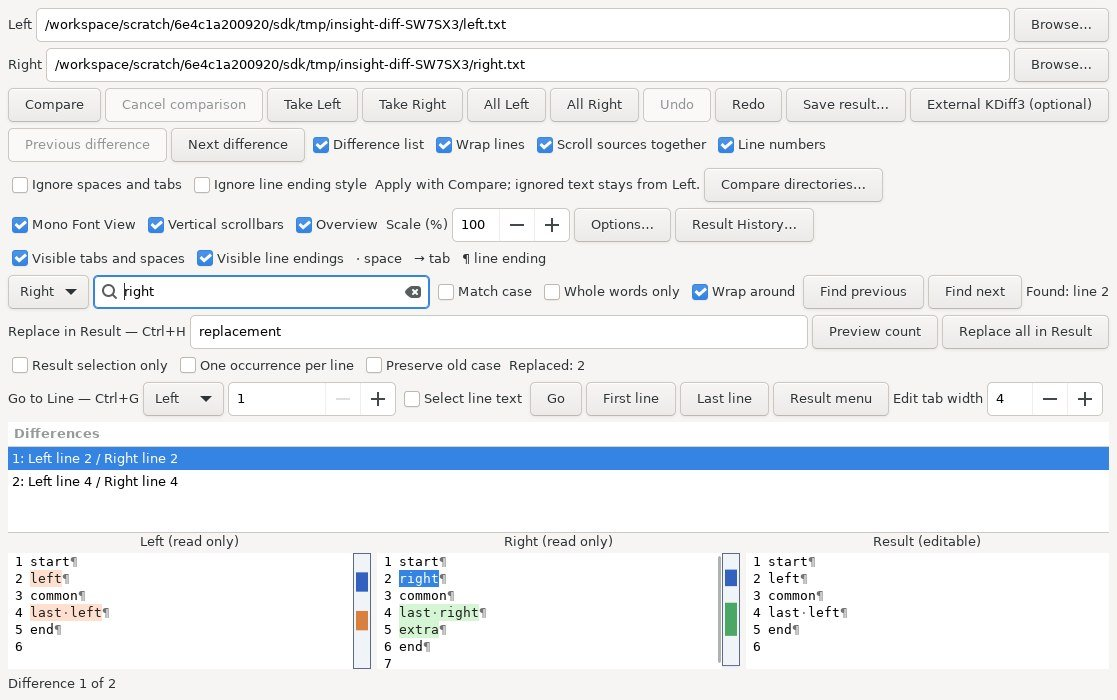
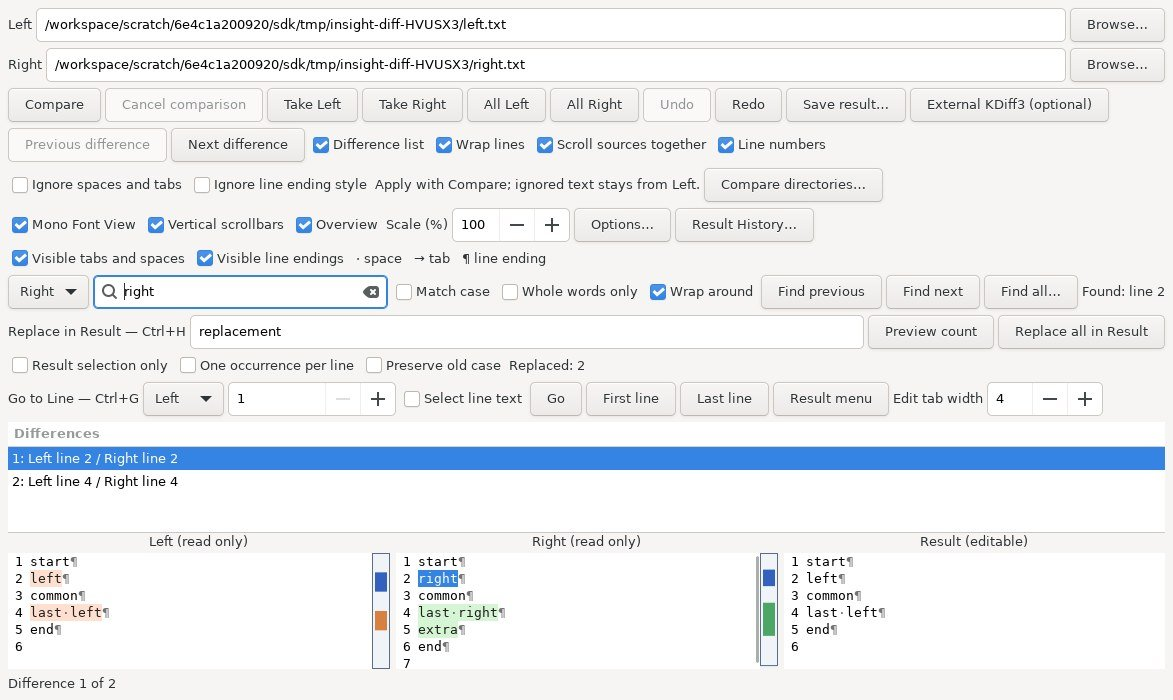
Add identifier search commands and bounded pane match lists with exact navigation

diff --git a/src/insight-diff.c b/src/insight-diff.c
@@ -180,6 +180,8 @@ static void go_line(GtkWidget *widget,gpointer data) {
  gchar *label=g_strdup_printf("Line %d of %d",line,gtk_text_buffer_get_line_count(buffer));gtk_label_set_text(GTK_LABEL(m->line_status),label);g_free(label);
 }
 static void line_begin(GtkWidget *widget,gpointer data) { Merge *m=data;gtk_spin_button_set_value(GTK_SPIN_BUTTON(m->line_number),widget==g_object_get_data(G_OBJECT(m->window),"line-first") ? 1 : G_MAXINT);go_line(widget,m); }
+static void selection_search(Merge *,guint,gint);
+static void find_all(Merge *,guint);
 static gboolean key(GtkWidget *w,GdkEventKey *event,gpointer data) {
  (void)w;
  Merge *m=data;
@@ -190,6 +192,8 @@ static gboolean key(GtkWidget *w,GdkEventKey *event,gpointer data) {
  }
  if(event->keyval==GDK_KEY_Escape && w==m->line_number) { gtk_widget_grab_focus(m->views[focused_pane(m)]);return TRUE; }
  if((event->state&GDK_CONTROL_MASK) && (event->keyval==GDK_KEY_h || event->keyval==GDK_KEY_H)) { gtk_combo_box_set_active(GTK_COMBO_BOX(m->find_side),2);gtk_widget_grab_focus(m->replace_entry);gtk_editable_select_region(GTK_EDITABLE(m->replace_entry),0,-1);return TRUE; }
+ if((event->state&GDK_CONTROL_MASK) && event->keyval==GDK_KEY_F3) { selection_search(m,focused_pane(m),(event->state&GDK_SHIFT_MASK) ? -1 : 1);return TRUE; }
+ if((event->state&(GDK_CONTROL_MASK|GDK_SHIFT_MASK))==(GDK_CONTROL_MASK|GDK_SHIFT_MASK) && (event->keyval==GDK_KEY_f || event->keyval==GDK_KEY_F)) { GtkWidget *focus=gtk_window_get_focus(GTK_WINDOW(m->window));guint side=gtk_combo_box_get_active(GTK_COMBO_BOX(m->find_side));for(guint i=0;i<3;i++) if(focus==m->views[i]) side=i;find_all(m,side);return TRUE; }
  if(event->keyval==GDK_KEY_F3) { find_text(m,(event->state&GDK_SHIFT_MASK)!=0);return TRUE; }
  if((event->state&GDK_CONTROL_MASK) && (event->keyval==GDK_KEY_f || event->keyval==GDK_KEY_F)) { focus_find(m);return TRUE; }
  if(event->keyval==GDK_KEY_Escape && w==m->find_entry) {
@@ -230,6 +234,42 @@ static gboolean search_match(GtkTextIter start,const gchar *query,GtkTextSearchF
  }
  return FALSE;
 }
+static void selection_search(Merge *m,guint side,gint direction) {
+ if(m->busy || side>2) return;
+ GtkTextBuffer *buffer=gtk_text_view_get_buffer(GTK_TEXT_VIEW(m->views[side]));GtkTextIter a,z,limit;guint scanned=0;
+ gboolean selection=gtk_text_buffer_get_selection_bounds(buffer,&a,&limit);
+ if(selection) { while(gtk_text_iter_compare(&a,&limit)<0 && !identifier_char(gtk_text_iter_get_char(&a)) && scanned++<4096) gtk_text_iter_forward_char(&a);if(gtk_text_iter_compare(&a,&limit)>=0) return; }
+ else { gtk_text_buffer_get_iter_at_mark(buffer,&a,gtk_text_buffer_get_insert(buffer));if(!identifier_char(gtk_text_iter_get_char(&a))) { GtkTextIter before=a;if(!gtk_text_iter_backward_char(&before) || !identifier_char(gtk_text_iter_get_char(&before))) return;a=before; } }
+ if(scanned>=4096 || !identifier_char(gtk_text_iter_get_char(&a))) return;
+ z=a;
+ for(;;) { GtkTextIter before=a;if(!gtk_text_iter_backward_char(&before) || !identifier_char(gtk_text_iter_get_char(&before))) break;if(scanned++>=4096) return;a=before; }
+ while(!gtk_text_iter_is_end(&z) && identifier_char(gtk_text_iter_get_char(&z))) { if(scanned++>=4096) return;gtk_text_iter_forward_char(&z); }
+ gchar *query=gtk_text_buffer_get_text(buffer,&a,&z,TRUE);gtk_entry_set_text(GTK_ENTRY(m->find_entry),query);g_free(query);gtk_combo_box_set_active(GTK_COMBO_BOX(m->find_side),side);
+ if(direction) { gtk_toggle_button_set_active(GTK_TOGGLE_BUTTON(m->find_word),TRUE);gtk_text_buffer_select_range(buffer,&a,&z);find_text(m,direction<0);gtk_widget_grab_focus(m->views[side]); }
+}
+static void search_result_activated(GtkTreeView *view,GtkTreePath *path,GtkTreeViewColumn *column,gpointer dialog) { (void)view;(void)path;(void)column;gtk_dialog_response(GTK_DIALOG(dialog),GTK_RESPONSE_APPLY); }
+static void find_all(Merge *m,guint side) {
+ if(m->busy || side>2) return;
+ const gchar *query=gtk_entry_get_text(GTK_ENTRY(m->find_entry));if(!*query) { gtk_label_set_text(GTK_LABEL(m->find_status),"Enter search text.");return; }
+ GtkWidget *window=m->window;g_object_ref(window);guint64 serial=m->history_serial;
+ GtkTextBuffer *buffer=gtk_text_view_get_buffer(GTK_TEXT_VIEW(m->views[side]));GtkTextSearchFlags flags=GTK_TEXT_SEARCH_TEXT_ONLY;if(!gtk_toggle_button_get_active(GTK_TOGGLE_BUTTON(m->find_case))) flags|=GTK_TEXT_SEARCH_CASE_INSENSITIVE;gboolean whole=gtk_toggle_button_get_active(GTK_TOGGLE_BUTTON(m->find_word));
+ GtkListStore *model=gtk_list_store_new(5,G_TYPE_INT,G_TYPE_INT,G_TYPE_UINT,G_TYPE_UINT,G_TYPE_STRING);GtkTextIter start,a,z;gtk_text_buffer_get_start_iter(buffer,&start);guint count=0;gboolean truncated=FALSE;
+ while(search_match(start,query,flags,FALSE,whole,&a,&z)) {
+  if(count==5000) { truncated=TRUE;break; }
+  GtkTextIter begin=a,end=a;gtk_text_iter_set_line_offset(&begin,0);if(!gtk_text_iter_ends_line(&end)) gtk_text_iter_forward_to_line_end(&end);if(gtk_text_iter_get_offset(&end)-gtk_text_iter_get_offset(&begin)>120) { begin=a;end=a;gtk_text_iter_forward_chars(&end,120); }
+  gchar *excerpt=gtk_text_buffer_get_text(buffer,&begin,&end,TRUE);for(gchar *p=excerpt;*p;p++) if(*p=='\r'||*p=='\n'||*p=='\t') *p=' ';
+  GtkTreeIter iter;gtk_list_store_append(model,&iter);gtk_list_store_set(model,&iter,0,gtk_text_iter_get_offset(&a),1,gtk_text_iter_get_offset(&z),2,gtk_text_iter_get_line(&a)+1,3,gtk_text_iter_get_line_offset(&a)+1,4,excerpt,-1);g_free(excerpt);count++;start=z;
+ }
+ GtkWidget *dialog=gtk_dialog_new_with_buttons("Pane Search Results",GTK_WINDOW(window),GTK_DIALOG_MODAL|GTK_DIALOG_DESTROY_WITH_PARENT,"Close",GTK_RESPONSE_CANCEL,"Go to match",GTK_RESPONSE_APPLY,NULL);g_object_ref(dialog);gtk_widget_set_name(dialog,"insight-diff-search-results");gtk_window_set_default_size(GTK_WINDOW(dialog),720,400);
+ GtkWidget *box=gtk_dialog_get_content_area(GTK_DIALOG(dialog));gchar *heading=g_strdup_printf("%s — %s",insight_tr(side==0 ? "Left" : side==1 ? "Right" : "Result"),query);GtkWidget *pattern=gtk_label_new(heading);g_free(heading);gtk_label_set_ellipsize(GTK_LABEL(pattern),PANGO_ELLIPSIZE_END);gtk_box_pack_start(GTK_BOX(box),pattern,FALSE,FALSE,4);gchar *summary=g_strdup_printf(truncated ? "Showing first %u matches (limit reached)." : "Matches: %u",count);gtk_box_pack_start(GTK_BOX(box),gtk_label_new(summary),FALSE,FALSE,4);g_free(summary);
+ GtkWidget *tree=gtk_tree_view_new_with_model(GTK_TREE_MODEL(model));g_object_unref(model);gtk_widget_set_name(tree,"insight-diff-search-results-list");g_signal_connect_object(tree,"row-activated",G_CALLBACK(search_result_activated),dialog,0);const gchar *titles[]={"Line","Column","Text preview"};for(guint i=0;i<3;i++) gtk_tree_view_insert_column_with_attributes(GTK_TREE_VIEW(tree),-1,titles[i],gtk_cell_renderer_text_new(),"text",i+2,NULL);
+ GtkWidget *scroll=gtk_scrolled_window_new(NULL,NULL);gtk_container_add(GTK_CONTAINER(scroll),tree);gtk_box_pack_start(GTK_BOX(box),scroll,TRUE,TRUE,4);gtk_dialog_set_response_sensitive(GTK_DIALOG(dialog),GTK_RESPONSE_APPLY,count>0);GtkTreeSelection *selection=g_object_ref(gtk_tree_view_get_selection(GTK_TREE_VIEW(tree)));if(count) { GtkTreePath *path=gtk_tree_path_new_first();gtk_tree_view_set_cursor(GTK_TREE_VIEW(tree),path,NULL,FALSE);gtk_tree_path_free(path); }gtk_widget_show_all(dialog);
+ gint response=gtk_dialog_run(GTK_DIALOG(dialog));m=g_object_get_data(G_OBJECT(window),"insight-diff-state");
+ if(response==GTK_RESPONSE_APPLY && m && !m->busy && m->history_serial==serial) { GtkTreeModel *selected_model;GtkTreeIter iter;if(gtk_tree_selection_get_selected(selection,&selected_model,&iter)) { gint begin,end;gtk_tree_model_get(selected_model,&iter,0,&begin,1,&end,-1);buffer=gtk_text_view_get_buffer(GTK_TEXT_VIEW(m->views[side]));gtk_text_buffer_get_iter_at_offset(buffer,&a,begin);gtk_text_buffer_get_iter_at_offset(buffer,&z,end);gtk_text_buffer_select_range(buffer,&a,&z);gtk_text_view_scroll_to_iter(GTK_TEXT_VIEW(m->views[side]),&a,0.1,TRUE,0,0.5);gtk_combo_box_set_active(GTK_COMBO_BOX(m->find_side),side);gtk_widget_grab_focus(m->views[side]); } }
+ else if(response==GTK_RESPONSE_APPLY && m && m->history_serial!=serial) gtk_label_set_text(GTK_LABEL(m->find_status),"Text changed; run Find all again.");
+ gtk_widget_destroy(dialog);g_object_unref(selection);g_object_unref(dialog);g_object_unref(window);
+}
+static void find_all_clicked(GtkWidget *widget,gpointer data) { (void)widget;Merge *m=data;find_all(m,gtk_combo_box_get_active(GTK_COMBO_BOX(m->find_side))); }
 static void find_text(Merge *m,gboolean backwards) {
  const gchar *query=gtk_entry_get_text(GTK_ENTRY(m->find_entry));if(!*query) { gtk_label_set_text(GTK_LABEL(m->find_status),"Enter search text.");return; }
  int side=gtk_combo_box_get_active(GTK_COMBO_BOX(m->find_side));
@@ -627,19 +667,20 @@ static void write_result(Merge *,guint);
 static void source_menu_action(GtkMenuItem *item,gpointer window) {
  Merge *m=g_object_get_data(G_OBJECT(window),"insight-diff-state");if(!m) return;
  gint side=GPOINTER_TO_INT(g_object_get_data(G_OBJECT(item),"side"));gint action=GPOINTER_TO_INT(g_object_get_data(G_OBJECT(item),"action"));
- if(action==0) edit_source(m,side);else if(action==1) copy_difference(m,side);else if(action==2) view_options(GTK_WIDGET(item),m);else if(action==3) focus_line(m,side);else if(side==2 && action<7) selection_case(m,action-4);else if(side==2 && action<11) edit_lines(m,action-7);else if(side==2 && action<13) history_end(m,action==12);else if(side==2 && action==13) history_dialog(NULL,m);else if(side==2) write_result(m,action-13);
+ if(action>=16) { if(action==19) find_all(m,side);else selection_search(m,side,action==16 ? 0 : action==17 ? 1 : -1); }else if(action==0) edit_source(m,side);else if(action==1) copy_difference(m,side);else if(action==2) view_options(GTK_WIDGET(item),m);else if(action==3) focus_line(m,side);else if(side==2 && action<7) selection_case(m,action-4);else if(side==2 && action<11) edit_lines(m,action-7);else if(side==2 && action<13) history_end(m,action==12);else if(side==2 && action==13) history_dialog(NULL,m);else if(side==2) write_result(m,action-13);
 }
 static void view_menu_toggle(GtkCheckMenuItem *item,gpointer toggle) { gtk_toggle_button_set_active(GTK_TOGGLE_BUTTON(toggle),gtk_check_menu_item_get_active(item)); }
 static void source_menu(GtkTextView *view,GtkWidget *menu,gpointer data) {
  Merge *m=data;guint side=GTK_WIDGET(view)==m->views[1] ? 1 : GTK_WIDGET(view)==m->views[0] ? 0 : 2;
  gtk_menu_shell_append(GTK_MENU_SHELL(menu),gtk_separator_menu_item_new());
- const gchar *labels[]={"Edit File — Ctrl+E","Copy selected difference","File Compare Options…","Go to Line — Ctrl+G","Uppercase selection","Lowercase selection","Toggle selection case","Indent result lines","Outdent result lines","Tabs to spaces in result lines","Trim trailing spaces in result lines","Undo All retained changes","Redo All retained changes","Result History…","Save a copy of Result…","Save Result selection…"};
+ const gchar *labels[]={"Edit File — Ctrl+E","Copy selected difference","File Compare Options…","Go to Line — Ctrl+G","Uppercase selection","Lowercase selection","Toggle selection case","Indent result lines","Outdent result lines","Tabs to spaces in result lines","Trim trailing spaces in result lines","Undo All retained changes","Redo All retained changes","Result History…","Save a copy of Result…","Save Result selection…","Load Search String","Search identifier forward — Ctrl+F3","Search identifier backward — Ctrl+Shift+F3","Find all matches in pane — Ctrl+Shift+F"};
  for(guint action=0;action<G_N_ELEMENTS(labels);action++) {
-  if((side==2 && action<2) || (side!=2 && action>=4)) continue;
+  if((side==2 && action<2) || (side!=2 && action>=4 && action<16)) continue;
   GtkWidget *item=gtk_menu_item_new_with_label(labels[action]);g_object_set_data(G_OBJECT(item),"side",GUINT_TO_POINTER(side));g_object_set_data(G_OBJECT(item),"action",GUINT_TO_POINTER(action));gtk_menu_shell_append(GTK_MENU_SHELL(menu),item);g_signal_connect_object(item,"activate",G_CALLBACK(source_menu_action),m->window,0);
   if(action>=4) gtk_widget_set_sensitive(item,!m->busy && (action>=7 || gtk_text_buffer_get_has_selection(result(m))));
   if(action>=11) gtk_widget_set_sensitive(item,!m->busy && (action==11 ? m->position>0 : action==12 ? m->position+1<m->history->len : m->history->len>0));
   if(action>=14) gtk_widget_set_sensitive(item,!m->busy && (action==14 || gtk_text_buffer_get_has_selection(result(m))));
+  if(action>=16) gtk_widget_set_sensitive(item,!m->busy);
   if(action<2) gtk_widget_set_sensitive(item,!m->busy && m->loaded_paths[side] && (action==0 ? source_opener!=NULL : selected(m)>=0));
  }
  GtkWidget *toggles[]={m->mono,m->numbers,m->list_toggle,m->wrap_toggle,m->vertical,m->overview,m->visible_space,m->visible_eol};
@@ -872,6 +913,7 @@ static Merge *merge_new(GtkWidget *parent) {
  m->find_word=gtk_check_button_new_with_label("Whole words only");gtk_box_pack_start(GTK_BOX(find),m->find_word,FALSE,FALSE,0);
  m->find_wrap=gtk_check_button_new_with_label("Wrap around");gtk_toggle_button_set_active(GTK_TOGGLE_BUTTON(m->find_wrap),TRUE);gtk_box_pack_start(GTK_BOX(find),m->find_wrap,FALSE,FALSE,0);
  m->find_previous=button(find,"Find previous",G_CALLBACK(find_clicked),m);m->find_next=button(find,"Find next",G_CALLBACK(find_clicked),m);
+ button(find,"Find all…",G_CALLBACK(find_all_clicked),m);
  m->find_status=gtk_label_new("");gtk_box_pack_start(GTK_BOX(find),m->find_status,FALSE,FALSE,0);
  g_signal_connect(m->find_entry,"activate",G_CALLBACK(find_activate),m);g_signal_connect(m->find_entry,"key-press-event",G_CALLBACK(key),m);
  GtkWidget *replace=gtk_box_new(GTK_ORIENTATION_HORIZONTAL,4);gtk_box_pack_start(GTK_BOX(box),replace,FALSE,FALSE,0);

diff --git a/insight/tests/diff_gui_test.c b/insight/tests/diff_gui_test.c
@@ -192,8 +192,31 @@ static void whitespace_test(void) {
  GdkPixbuf *plain=text_capture(m->views[2]);gtk_toggle_button_set_active(GTK_TOGGLE_BUTTON(m->visible_space),TRUE);gtk_toggle_button_set_active(GTK_TOGGLE_BUTTON(m->visible_eol),TRUE);GdkPixbuf *marked=text_capture(m->views[2]);g_assert_cmpint(gdk_pixbuf_get_byte_length(plain),==,gdk_pixbuf_get_byte_length(marked));g_assert_true(memcmp(gdk_pixbuf_get_pixels(plain),gdk_pixbuf_get_pixels(marked),gdk_pixbuf_get_byte_length(plain))!=0);g_object_unref(plain);g_object_unref(marked);assert_text(m,text);g_assert_cmpuint(m->history->len,==,history);
  GKeyFile *prefs=g_key_file_new();view_save(m,prefs);gtk_toggle_button_set_active(GTK_TOGGLE_BUTTON(m->visible_space),FALSE);gtk_toggle_button_set_active(GTK_TOGGLE_BUTTON(m->visible_eol),FALSE);view_restore(m,prefs);g_assert_true(gtk_toggle_button_get_active(GTK_TOGGLE_BUTTON(m->visible_space)));g_assert_true(gtk_toggle_button_get_active(GTK_TOGGLE_BUTTON(m->visible_eol)));g_key_file_unref(prefs);gtk_widget_destroy(m->window);flush();
 }
+typedef struct { Merge *m;guint rows,index;gint response;gboolean mutate; } SearchResponse;
+static gboolean search_response(gpointer data) {
+ SearchResponse *action=data;GList *windows=gtk_window_list_toplevels();GtkWidget *dialog=NULL;
+ for(GList *p=windows;p;p=p->next) if(!g_strcmp0(gtk_widget_get_name(p->data),"insight-diff-search-results")) dialog=p->data;
+ g_list_free(windows);g_assert_nonnull(dialog);GtkWidget *tree=named(dialog,"insight-diff-search-results-list");g_assert_cmpint(gtk_tree_model_iter_n_children(gtk_tree_view_get_model(GTK_TREE_VIEW(tree)),NULL),==,action->rows);
+ if(action->rows) { GtkTreePath *path=gtk_tree_path_new_from_indices(action->index,-1);gtk_tree_view_set_cursor(GTK_TREE_VIEW(tree),path,NULL,FALSE);gtk_tree_path_free(path); }
+ const gchar *capture=g_getenv("INSIGHT_DIFF_SEARCH_CAPTURE");if(capture && action->rows==3) { gint64 until=g_get_monotonic_time()+200000;while(g_get_monotonic_time()<until) { flush();g_usleep(1000); }GdkWindow *window=gtk_widget_get_window(dialog);GdkPixbuf *pixbuf=gdk_pixbuf_get_from_window(window,0,0,gdk_window_get_width(window),gdk_window_get_height(window));g_assert_nonnull(pixbuf);g_assert_true(gdk_pixbuf_save(pixbuf,capture,"jpeg",NULL,"quality","88",NULL));g_object_unref(pixbuf); }
+ if(action->mutate) gtk_text_buffer_set_text(result(action->m),"changed while searching",-1);
+ if(action->response==GTK_RESPONSE_APPLY && action->rows && !action->mutate) { GtkTreePath *path=gtk_tree_path_new_from_indices(action->index,-1);gtk_tree_view_row_activated(GTK_TREE_VIEW(tree),path,gtk_tree_view_get_column(GTK_TREE_VIEW(tree),0));gtk_tree_path_free(path); }else gtk_dialog_response(GTK_DIALOG(dialog),action->response);return G_SOURCE_REMOVE;
+}
+static void search_actions_test(void) {
+ Merge *m=merge_new(NULL);GtkTextBuffer *buffer=result(m);const gchar *initial="foo foobar foo\r\nяfoo foo\n";gtk_text_buffer_set_text(buffer,initial,-1);GtkTextIter a,z;
+ gtk_text_buffer_get_iter_at_offset(buffer,&a,1);gtk_text_buffer_place_cursor(buffer,&a);selection_search(m,2,0);g_assert_cmpstr(gtk_entry_get_text(GTK_ENTRY(m->find_entry)),==,"foo");g_assert_cmpint(gtk_text_iter_get_offset(&a),==,1);
+ selection_search(m,2,1);g_assert_true(gtk_text_buffer_get_selection_bounds(buffer,&a,&z));g_assert_cmpint(gtk_text_iter_get_offset(&a),==,11);selection_search(m,2,-1);gtk_text_buffer_get_selection_bounds(buffer,&a,&z);g_assert_cmpint(gtk_text_iter_get_offset(&a),==,0);
+ guint history=m->history->len;SearchResponse response={m,3,2,GTK_RESPONSE_CANCEL,FALSE};g_timeout_add(100,search_response,&response);find_all(m,2);g_assert_cmpuint(m->history->len,==,history);assert_text(m,initial);
+ response.response=GTK_RESPONSE_APPLY;g_timeout_add(100,search_response,&response);find_all(m,2);gtk_text_buffer_get_selection_bounds(buffer,&a,&z);g_assert_cmpint(gtk_text_iter_get_line(&a),==,1);g_assert_cmpint(gtk_text_iter_get_line_offset(&a),==,5);
+ response.rows=0;response.response=GTK_RESPONSE_CANCEL;gtk_entry_set_text(GTK_ENTRY(m->find_entry),"missing");g_timeout_add(100,search_response,&response);find_all(m,2);
+ gtk_entry_set_text(GTK_ENTRY(m->find_entry),"foo");response.rows=3;response.response=GTK_RESPONSE_APPLY;response.mutate=TRUE;g_timeout_add(100,search_response,&response);find_all(m,2);assert_text(m,"changed while searching");g_assert_false(gtk_text_buffer_get_has_selection(buffer));
+ gtk_text_buffer_set_text(buffer,"ёж_2 ёж_2",-1);gtk_text_buffer_get_start_iter(buffer,&a);gtk_text_buffer_place_cursor(buffer,&a);selection_search(m,2,1);g_assert_cmpstr(gtk_entry_get_text(GTK_ENTRY(m->find_entry)),==,"ёж_2");gtk_text_buffer_get_selection_bounds(buffer,&a,&z);g_assert_cmpint(gtk_text_iter_get_offset(&a),==,5);
+ gchar *long_word=g_strnfill(4097,'x');gtk_text_buffer_set_text(buffer,long_word,-1);g_free(long_word);gtk_text_buffer_get_start_iter(buffer,&a);gtk_text_buffer_place_cursor(buffer,&a);selection_search(m,2,0);g_assert_cmpstr(gtk_entry_get_text(GTK_ENTRY(m->find_entry)),==,"ёж_2");gtk_entry_set_text(GTK_ENTRY(m->find_entry),"foo");
+ GString *many=g_string_new(NULL);for(guint i=0;i<5100;i++) g_string_append(many,"foo\n");gtk_text_buffer_set_text(buffer,many->str,-1);g_string_free(many,TRUE);response.rows=5000;response.response=GTK_RESPONSE_CANCEL;response.mutate=FALSE;g_timeout_add(100,search_response,&response);find_all(m,2);
+ gboolean gone=FALSE;g_object_weak_ref(G_OBJECT(m->window),finalized,&gone);g_idle_add(close_options_parent,m->window);find_all(m,2);flush();g_assert_true(gone);
+}
 int main(int argc,char **argv) {
- g_setenv("GSETTINGS_BACKEND","memory",TRUE);gtk_init(&argc,&argv);line_navigation_test();search_options_test();replace_test();case_test();line_edit_test();history_test();export_test();whitespace_test();insight_diff_set_source_opener(source_opened);
+ g_setenv("GSETTINGS_BACKEND","memory",TRUE);gtk_init(&argc,&argv);line_navigation_test();search_options_test();replace_test();case_test();line_edit_test();history_test();export_test();whitespace_test();search_actions_test();insight_diff_set_source_opener(source_opened);
  GError *error=NULL;gchar *dir=g_dir_make_tmp("insight-diff-XXXXXX",&error);g_assert_no_error(error);
  gchar *left=g_build_filename(dir,"left.txt",NULL),*right=g_build_filename(dir,"right.txt",NULL);
  const char *a="start\nleft\ncommon\nlast left\nend\n",*b="start\nright\ncommon\nlast right\nextra\nend\n";

diff --git a/insight/tests/directory_compare_native_gui_test.c b/insight/tests/directory_compare_native_gui_test.c
@@ -31,6 +31,9 @@ static gboolean save_selected_result(gpointer data) {
  if(!prepared) { export_path=g_build_filename(root,"selection.txt",NULL);gtk_file_chooser_set_current_folder(GTK_FILE_CHOOSER(dialog),root);gtk_file_chooser_set_current_name(GTK_FILE_CHOOSER(dialog),"selection.txt");prepared=TRUE;return G_SOURCE_CONTINUE; }
  gchar *path=gtk_file_chooser_get_filename(GTK_FILE_CHOOSER(dialog));gboolean ready=!g_strcmp0(path,export_path);g_free(path);if(!ready) return G_SOURCE_CONTINUE;gtk_dialog_response(GTK_DIALOG(dialog),GTK_RESPONSE_ACCEPT);return G_SOURCE_REMOVE;
 }
+static gboolean choose_search_match(gpointer data) {
+ (void)data;GtkWidget *dialog=window_named("insight-diff-search-results");g_assert_nonnull(dialog);GtkWidget *tree=named(dialog,"insight-diff-search-results-list");g_assert_cmpint(gtk_tree_model_iter_n_children(gtk_tree_view_get_model(GTK_TREE_VIEW(tree)),NULL),==,1);gtk_dialog_response(GTK_DIALOG(dialog),GTK_RESPONSE_APPLY);return G_SOURCE_REMOVE;
+}
 static gboolean step(gpointer data) {
  (void)data;
  if(!phase) {
@@ -61,7 +64,7 @@ static gboolean step(gpointer data) {
   gtk_text_buffer_get_start_iter(buffer,&a);gtk_text_buffer_place_cursor(buffer,&a);GtkWidget *result_menu=GTK_WIDGET(gtk_menu_button_get_popup(GTK_MENU_BUTTON(named(merge,"insight-diff-result-menu"))));gtk_widget_show(result_menu);GList *edit_items=gtk_container_get_children(GTK_CONTAINER(result_menu));gboolean indented=FALSE;for(GList *p=edit_items;p;p=p->next) if(GTK_IS_MENU_ITEM(p->data) && !g_strcmp0(gtk_menu_item_get_label(p->data),"Indent result lines")) { gtk_menu_item_activate(p->data);indented=TRUE;break; }g_list_free(edit_items);gtk_widget_hide(result_menu);g_assert_true(indented);gtk_text_buffer_get_bounds(buffer,&a,&z);text=gtk_text_buffer_get_text(buffer,&a,&z,TRUE);g_assert_cmpstr(text,==,"    port = 3000\n");g_free(text);shortcut.keyval=GDK_KEY_z;handled=FALSE;g_signal_emit_by_name(merge,"key-press-event",&shortcut,&handled);g_assert_true(handled);
   g_idle_add(apply_history_state,NULL);gtk_button_clicked(GTK_BUTTON(named(merge,"insight-diff-history-button")));gtk_text_buffer_get_bounds(buffer,&a,&z);text=gtk_text_buffer_get_text(buffer,&a,&z,TRUE);g_assert_cmpstr(text,==,"    port = 3000\n");g_free(text);shortcut.keyval=GDK_KEY_z;handled=FALSE;g_signal_emit_by_name(merge,"key-press-event",&shortcut,&handled);g_assert_true(handled);
   gtk_text_buffer_get_bounds(buffer,&a,&z);gtk_text_buffer_select_range(buffer,&a,&z);gtk_widget_show(result_menu);GList *save_items=gtk_container_get_children(GTK_CONTAINER(result_menu));gboolean exported=FALSE;for(GList *p=save_items;p;p=p->next) if(GTK_IS_MENU_ITEM(p->data) && !g_strcmp0(gtk_menu_item_get_label(p->data),"Save Result selection…")) { g_timeout_add(100,save_selected_result,NULL);gtk_menu_item_activate(p->data);exported=TRUE;break; }g_list_free(save_items);gtk_widget_hide(result_menu);g_assert_true(exported);GeanyDocument *exported_doc=document_get_current();g_assert_nonnull(exported_doc);g_assert_cmpstr(exported_doc->real_path,==,export_path);g_assert_false(exported_doc->changed);g_assert_true(g_file_get_contents(export_path,&text,NULL,NULL));g_assert_cmpstr(text,==,"port = 3000\n");g_free(text);
-  GtkWidget *right_view=named(merge,"insight-diff-right");GtkTextBuffer *right_buffer=gtk_text_view_get_buffer(GTK_TEXT_VIEW(right_view));GtkTextIter line;gtk_widget_grab_focus(right_view);shortcut.keyval=GDK_KEY_g;handled=FALSE;g_signal_emit_by_name(right_view,"key-press-event",&shortcut,&handled);g_assert_true(handled);GtkWidget *line_number=named(merge,"insight-diff-line");g_assert_nonnull(line_number);gtk_spin_button_set_value(GTK_SPIN_BUTTON(line_number),2);g_signal_emit_by_name(line_number,"activate");gtk_text_buffer_get_iter_at_mark(right_buffer,&line,gtk_text_buffer_get_insert(right_buffer));g_assert_cmpint(gtk_text_iter_get_line(&line),==,1);shortcut.keyval=GDK_KEY_e;handled=FALSE;g_signal_emit_by_name(right_view,"key-press-event",&shortcut,&handled);g_assert_true(handled);GeanyDocument *opened=document_get_current();g_assert_nonnull(opened);gchar *expected=g_build_filename(right,"config.ini",NULL);g_assert_cmpstr(opened->real_path,==,expected);g_free(expected);g_assert_cmpint(sci_get_current_line(opened->editor->sci),==,1);g_assert_false(opened->changed);gtk_widget_destroy(merge);
+  GtkWidget *right_view=named(merge,"insight-diff-right");GtkTextBuffer *right_buffer=gtk_text_view_get_buffer(GTK_TEXT_VIEW(right_view));GtkTextIter line;gtk_text_buffer_get_start_iter(right_buffer,&line);gtk_text_buffer_place_cursor(right_buffer,&line);gtk_widget_grab_focus(right_view);gtk_entry_set_text(GTK_ENTRY(named(merge,"insight-diff-search")),"unrelated");shortcut.keyval=GDK_KEY_F3;handled=FALSE;g_signal_emit_by_name(right_view,"key-press-event",&shortcut,&handled);g_assert_true(handled);g_assert_cmpstr(gtk_entry_get_text(GTK_ENTRY(named(merge,"insight-diff-search"))),==,"port");shortcut.keyval=GDK_KEY_F;shortcut.state=GDK_CONTROL_MASK|GDK_SHIFT_MASK;handled=FALSE;g_idle_add(choose_search_match,NULL);g_signal_emit_by_name(right_view,"key-press-event",&shortcut,&handled);g_assert_true(handled);g_assert_true(gtk_text_buffer_get_has_selection(right_buffer));shortcut.state=GDK_CONTROL_MASK;shortcut.keyval=GDK_KEY_g;handled=FALSE;g_signal_emit_by_name(right_view,"key-press-event",&shortcut,&handled);g_assert_true(handled);GtkWidget *line_number=named(merge,"insight-diff-line");g_assert_nonnull(line_number);gtk_spin_button_set_value(GTK_SPIN_BUTTON(line_number),2);g_signal_emit_by_name(line_number,"activate");gtk_text_buffer_get_iter_at_mark(right_buffer,&line,gtk_text_buffer_get_insert(right_buffer));g_assert_cmpint(gtk_text_iter_get_line(&line),==,1);shortcut.keyval=GDK_KEY_e;handled=FALSE;g_signal_emit_by_name(right_view,"key-press-event",&shortcut,&handled);g_assert_true(handled);GeanyDocument *opened=document_get_current();g_assert_nonnull(opened);gchar *expected=g_build_filename(right,"config.ini",NULL);g_assert_cmpstr(opened->real_path,==,expected);g_free(expected);g_assert_cmpint(sci_get_current_line(opened->editor->sci),==,1);g_assert_false(opened->changed);gtk_widget_destroy(merge);
   gchar *copy=g_build_filename(left,"transfer.c",NULL);g_assert_true(g_file_set_contents(copy,"int transfer;\n",-1,NULL));g_free(copy);gtk_button_clicked(GTK_BUTTON(named(directory,"insight-directory-scan")));phase=3;return G_SOURCE_CONTINUE;
  }
  if(phase==3) {

diff --git a/insight/docs/en/internal-diff.md b/insight/docs/en/internal-diff.md
@@ -252,3 +252,13 @@ Text is captured before the file chooser. If the result changes, a comparison st
 **Visible tabs and spaces** draws ASCII spaces as `·` and tabs as `→`. **Visible line endings** draws `¶` for CR, LF or a CRLF pair, with one marker per pair. These are overlays in all three panes. Marker glyphs do not enter searches, selections, clipboard text, exports or saved files and create no merge history.
 
 Both toggles are available in the toolbar, Options and context menus. Apply commits changes; Cancel keeps the previous settings. Values persist with comparison-window preferences. Drawing follows zoom and wrapping. Work is capped at 20000 characters from the visible starting position per draw; pathological long lines can omit some markers. This does not affect text or comparison results. The main-window capture above shows enabled markers.
+
+### Identifier search and match lists
+
+Every pane's context menu provides **Load Search String**, forward/backward identifier search and **Find all matches in pane**. Loading takes the identifier under the caret or the first identifier in the selection, targets that search pane and preserves the caret. Identifiers use Unicode letters/digits, combining marks and underscore, without language parsing. Words requiring more than 4096 characters of traversal are not loaded.
+
+Ctrl+F3 searches for the next identifier occurrence; Ctrl+Shift+F3 searches backward. Both enable **Whole words only** and honor current case/wrap options. **Find all…** searches the entire pane chosen in the search bar. Ctrl+Shift+F uses the focused pane or the search-bar pane when focus is in controls. This is local comparison-pane search.
+
+The list contains up to 5000 matches with one-based logical lines/columns and text excerpts, indicating when capped. **Go to match** or double-click selects the exact range; Close changes nothing. Text edits or a new comparison invalidate old positions, so stale navigation is rejected. Queries, lists and positions are not persisted. Commands do not edit text or merge history and are unavailable while comparison runs.
+
+![Production GTK match list, isolated test fixture](../media/file-compare-search.jpg)

diff --git a/insight/docs/internal-diff.md b/insight/docs/internal-diff.md
@@ -252,3 +252,13 @@ Text is captured before the file chooser. If the result changes, a comparison st
 **Visible tabs and spaces** draws ASCII spaces as `·` and tabs as `→`. **Visible line endings** draws `¶` for CR, LF or a CRLF pair, with one marker per pair. These are overlays in all three panes. Marker glyphs do not enter searches, selections, clipboard text, exports or saved files and create no merge history.
 
 Both toggles are available in the toolbar, Options and context menus. Apply commits changes; Cancel keeps the previous settings. Values persist with comparison-window preferences. Drawing follows zoom and wrapping. Work is capped at 20000 characters from the visible starting position per draw; pathological long lines can omit some markers. This does not affect text or comparison results. The main-window capture above shows enabled markers.
+
+### Identifier search and match lists
+
+Every pane's context menu provides **Load Search String**, forward/backward identifier search and **Find all matches in pane**. Loading takes the identifier under the caret or the first identifier in the selection, targets that search pane and preserves the caret. Identifiers use Unicode letters/digits, combining marks and underscore, without language parsing. Words requiring more than 4096 characters of traversal are not loaded.
+
+Ctrl+F3 searches for the next identifier occurrence; Ctrl+Shift+F3 searches backward. Both enable **Whole words only** and honor current case/wrap options. **Find all…** searches the entire pane chosen in the search bar. Ctrl+Shift+F uses the focused pane or the search-bar pane when focus is in controls. This is local comparison-pane search.
+
+The list contains up to 5000 matches with one-based logical lines/columns and text excerpts, indicating when capped. **Go to match** or double-click selects the exact range; Close changes nothing. Text edits or a new comparison invalidate old positions, so stale navigation is rejected. Queries, lists and positions are not persisted. Commands do not edit text or merge history and are unavailable while comparison runs.
+
+![Production GTK match list, isolated test fixture](media/file-compare-search.jpg)

diff --git a/insight/docs/source-insight-parity.md b/insight/docs/source-insight-parity.md
@@ -456,3 +456,7 @@ Added Save a Copy and Save Selection to Result menu. Both preserve saved-text ma
 ### 2026-10-16 — visible whitespace in comparison panes
 
 Added visible ASCII spaces/tabs and line-ending overlays to all three native comparison panes. CRLF produces one paragraph marker. Toolbar, Apply/Cancel options and context toggles share state; two whitelisted booleans persist without changing preference version or old option indices. Draw traversal is bounded at 20000 characters with clipping to the text window; zoom/wrap use GTK iter geometry. Production GTK/UBSan checks marker classification, real pixel changes, unchanged exact bytes/history and preference round trip. Native Linux fixture applies both options and verifies saved config. Reference: [Visible Tabs and Spaces](https://www.sourceinsight.com/doc/v4/userguide/Manual/Command_Reference/Visible_Tabs_and_Spaces.htm).
+
+### 2026-10-16 — pane identifier search and match list
+
+Added Load Search String, forward/backward identifier search (Ctrl+F3/Ctrl+Shift+F3) and bounded Find All (toolbar, context and Ctrl+Shift+F). Unicode identifier traversal is bounded at 4096; identifier search enables whole-word matching and retains case/wrap options. Match lists cap at 5000, show one-based logical line/column and excerpts, support Go/double-click, and reject stale offsets via history serial. Modal lifetime survives parent destruction. GTK/UBSan covers Unicode, direction, range navigation, no-result/cap, stale text, unchanged history and parent close. Native Linux fixture invokes both shortcuts in the right source pane. Reference: [Searching the Current File](https://www.sourceinsight.com/doc/v4/userguide/Manual/Concepts/Searching_the_Current_File.htm).
